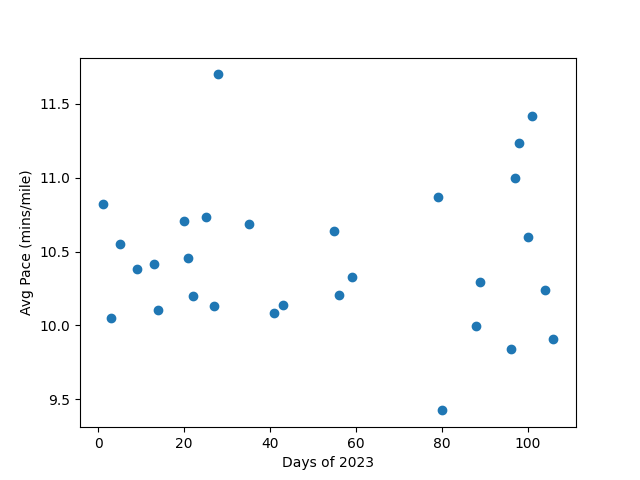
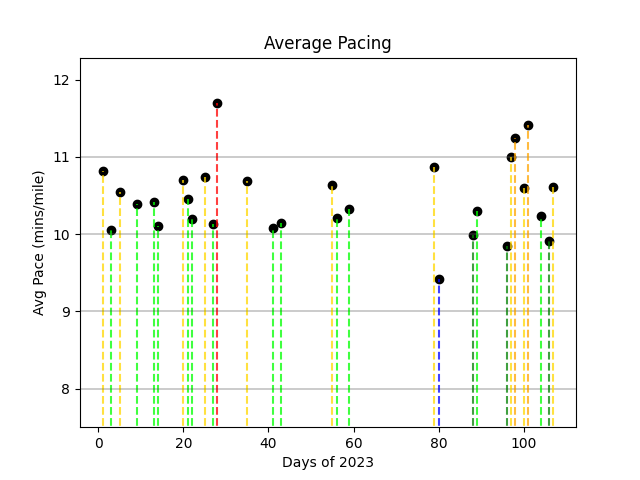
make plots look nicer also new data

diff --git a/progress.py b/progress.py
@@ -40,7 +40,7 @@ maximum = max(total_miles_lst+days)
 
 # Plot Cumulative Miles
 
-plot_cumulative = False
+plot_cumulative = True
 
 if plot_cumulative:
     plt.plot((1,maximum),(1, maximum), color='b', label='Goal')
@@ -53,11 +53,11 @@ if plot_cumulative:
     plt.ylabel('# Miles')
     plt.legend()
     plt.savefig('cumulative-miles')
-    plt.show()
+    plt.close()
 
 # Plot difference from ideal
 
-plot_difference = False
+plot_difference = True
 
 if plot_difference:
     diff = []
@@ -74,9 +74,29 @@ if plot_difference:
     plt.ylabel('# Miles Away from Goal')
     plt.legend()
     plt.savefig('delta-miles')
-    plt.show()
+    plt.close()
 
 # Plot Average Pace
+
+def colorcode_pacing(day, pace):
+    color = None
+    if pace > 11.5:
+        color='red'
+    elif pace > 11:
+        color='orange'
+    elif pace > 10.5:
+        color='gold'
+    elif pace > 10:
+        color='lime'
+    elif pace > 9.5:
+        color='green'
+    else:
+        color='blue'
+    plt.axhline(8,  color='gray', alpha=0.01)
+    plt.axhline(9,  color='gray', alpha=0.01)
+    plt.axhline(10, color='gray', alpha=0.01)
+    plt.axhline(11, color='gray', alpha=0.01)
+    plt.plot((day,day), (0,pace), linestyle='dashed',color=color, alpha=0.75)
 
 plot_pacing = True
 avg_pace = []
@@ -91,15 +111,24 @@ if plot_pacing:
         fastest_pace_mins.append(fastest_pace[i]/60.0)
         # mins = int(avg_pace[i]//60)
         # secs = avg_pace[i] - mins*60
-        # print(f"Avg Pace Day {days[i]}: {avg_pace[i]} {mins}:{secs}")
-    plt.scatter(days, avg_pace_mins)
+        # print(f"Day {days[i]}: {avg_pace[i]} {mins}:{secs}")
+
+    for i in range(len(avg_pace_mins)):
+        colorcode_pacing(days[i], avg_pace_mins[i])
+    plt.scatter(days, avg_pace_mins, color='k')
+    plt.ylim(bottom=7.5)
     plt.xlabel('Days of 2023')
     plt.ylabel('Avg Pace (mins/mile)')
+    plt.title("Average Pacing")
     plt.savefig("average-pacing")
-    plt.show()
+    plt.close()
 
-    plt.scatter(days, fastest_pace_mins)
+    for i in range(len(fastest_pace_mins)):
+        colorcode_pacing(days[i], fastest_pace_mins[i])
+    plt.scatter(days, fastest_pace_mins, color='k')
+    plt.ylim(bottom=7.5)
     plt.xlabel('Days of 2023')
     plt.ylabel('Fastest Mile (mins/mile)')
+    plt.title("Fastest Mile Pace")
     plt.savefig("fastest-pacing")
-    plt.show()
+    plt.close()
